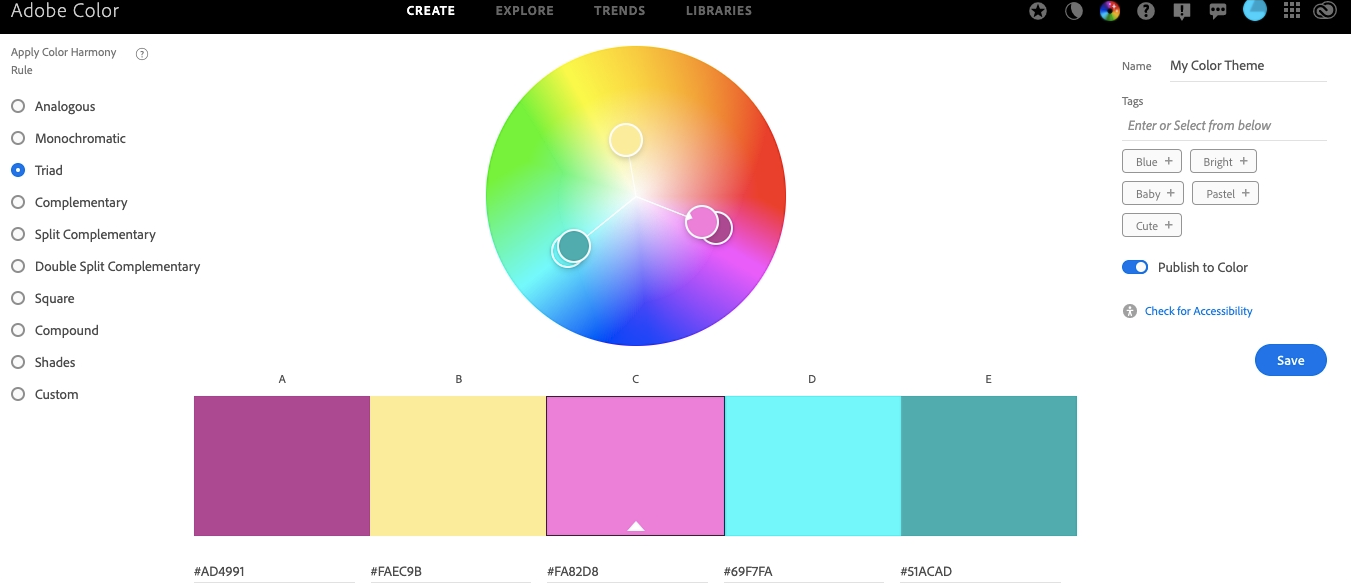
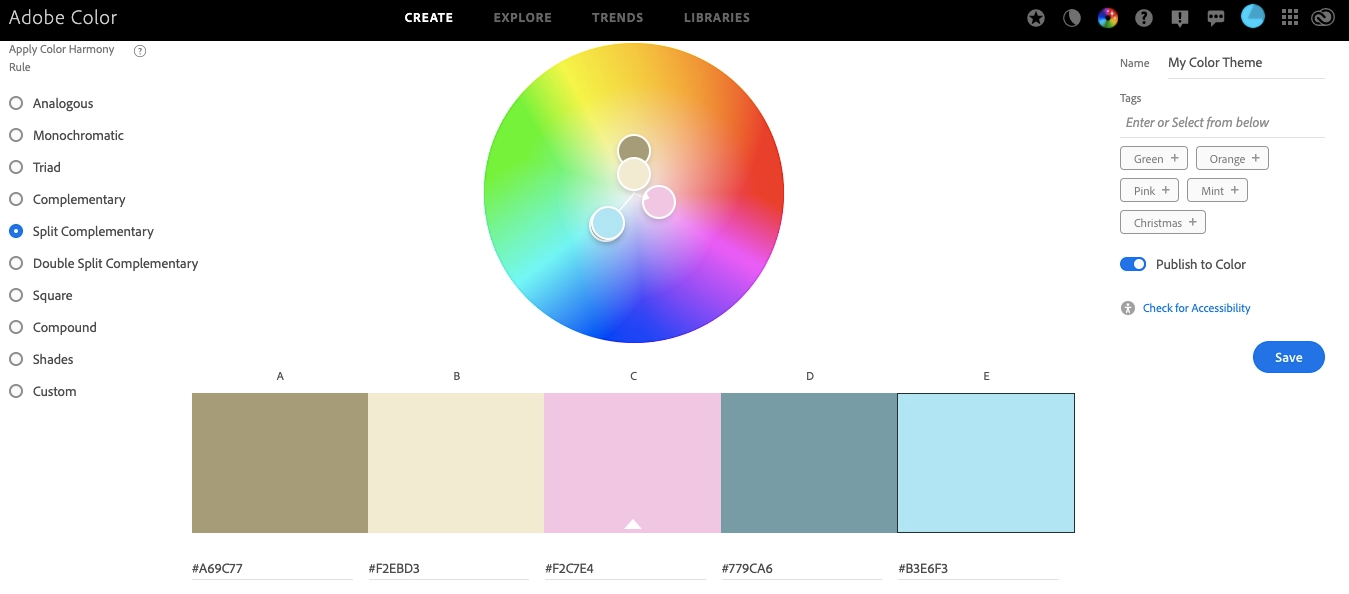
edit colors and fonts

diff --git a/style.css b/style.css
@@ -1,31 +1,31 @@
-/* font-family: 'Abril Fatface', cursive; */
-/* font-family: 'PT Sans Narrow', sans-serif; */
+/* font-family: 'Playfair Display', serif; */
+/*font-family: 'Yanone Kaffeesatz', sans-serif;*/
 h1 {
-    font-family: 'Abril Fatface', cursive;
+    font-family: 'Playfair Display', serif;
 }
 
 h2 {
-    font-family: 'Abril Fatface', cursive;
+    font-family: 'Playfair Display', serif;
 }
 
 h3 {
-    font-family: 'Abril Fatface', cursive;
+    font-family: 'Playfair Display', serif;
 }
 
 p {
-    font-family: 'PT Sans Narrow', sans-serif;
+    font-family: 'Playfair Display', serif;
 }
 
 h4 {
-    font-family: 'Abril Fatface', cursive;
+    font-family: 'Playfair Display', serif;
 }
 
 h5 {
-    font-family: 'Abril Fatface', cursive;
+    font-family: 'Playfair Display', serif;
 }
 
 h6 {
-    font-family: 'Abril Fatface', cursive;
+    font-family: 'Playfair Display', serif;
 }
 
 #color-palette {
@@ -38,35 +38,35 @@ h6 {
     display: inline-block;
     height:150px;
     width: 150px;
-    background-color: #AD4991;
+    background-color: #A69C77;
 }
 
 .color-2 {
     display: inline-block;
     height:150px;
     width: 150px;
-    background-color: #FAEC9B;
+    background-color: #F2EBD3;
 }
 
 .color-3 {
     display: inline-block;
     height:150px;
     width: 150px;
-    background-color: #FA82D8;
+    background-color: #F2C7E4;
 }
 
 .color-4 {
     display: inline-block;
     height:150px;
     width: 150px;
-    background-color: #69F7FA;
+    background-color: #779CA6;
 }
 
 .color-5 {
     display: inline-block;
     height:150px;
     width: 150px;
-    background-color: #51ACAD;
+    background-color: #B3E6F3;
 }
 
 img {

diff --git a/design.html b/design.html
@@ -34,11 +34,11 @@
 
         <h6>he five boxing wizards jump quickly.</h6>
         <div id=color-palette>
-            <div class=color-1>#AD4991</div>
-            <div class=color-2>#FAEC9B</div>
-            <div class=color-3>#FA82D8</div>
-            <div class=color-4>#69F7FA</div>
-            <div class=color-5>#51ACAD</div>
+            <div class=color-1>#A69C77</div>
+            <div class=color-2>#F2EBD3</div>
+            <div class=color-3>#F2C7E4</div>
+            <div class=color-4>#779CA6</div>
+            <div class=color-5>#B3E6F3</div>
         </div>
 
         <h3>Wireframes</h3>

diff --git a/styles.css b/styles.css
@@ -1,7 +1,7 @@
 h1 {
     font-size: 36px;
-    color: #AD4991;
-    font-family: 'Abril Fatface', cursive;
+    color: #779CA6;
+    font-family: 'Playfair Display', serif;
 }
 
 img {
@@ -9,10 +9,11 @@ img {
 }
 
 .head-links {
-    font-family: 'Abril Fatface', cursive;
+    font-family: 'Playfair Display', serif;
     font-size: 30px;
-    color: #AD4991;
+    color: #B3E6F3;
     display: inline;
     flex-direction: row;
     justify-content: right;
+    align-items: flex-end;
 }

diff --git a/index.html b/index.html
@@ -3,6 +3,7 @@
     <head>
         <title>Homepage</title>
          <link rel="stylesheet" href="styles.css">
+         <link href="https://fonts.googleapis.com/css2?family=Playfair+Display&family=Yanone+Kaffeesatz&display=swap" rel="stylesheet">
     </head>
     <body>
         <!-- content goes here -->
